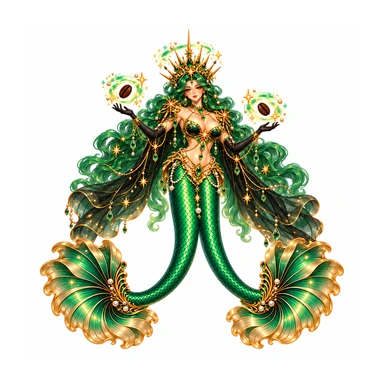
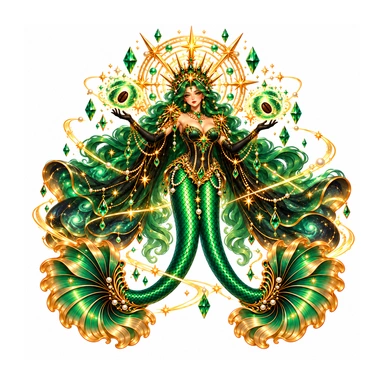
Elevate Sovereign Siren to a divine corseted final evolution

diff --git a/docs/emerald-siren.md b/docs/emerald-siren.md
@@ -22,3 +22,7 @@ Stage prompts add: a baby nestled in a star-emblem coffee cup; a small mermaid h
 
 Run `npm run check:creatures` to verify images and progression, including every bond boundary and the terminal fifth tier.
 
+
+The final Sovereign Siren is a divine cosmic ocean goddess with a celestial halo, galaxy-woven cape, twin tails, Genesis Tide, a 12 m lore height, and a 9,999 lore power rating. Power is descriptive and does not alter discovery or bonding.
+
+Her final outfit is a structured black-and-emerald corset with gold boning, ornate filigree, and a luminous emerald centerpiece.
